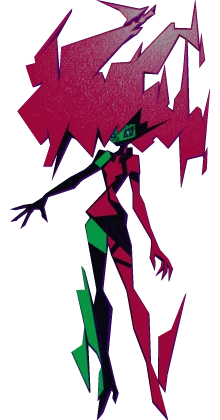
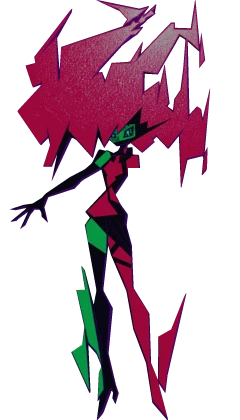
Mirror the reaching arm so both arms match, and rig both
The hanging arm is removed from the sprite (tools/build-sprite.py keeps the
original cut-out as source); the shader draws the reaching arm mirrored in
its place. Arms pass in front of the mane with a violet line, except at the
shoulders.

diff --git a/src/renderer/js/sprite.js b/src/renderer/js/sprite.js
@@ -1,7 +1,7 @@
 // WebGL renderer for the Capri cut-out.
-// One texture, one quad: every bit of life (head tilt, mane sway and flare, sitting with dangling
-// legs, smear frames, afterimages, line boil, speckles, the violet misregistration, glitch slices,
-// teleport collapse) is done in the fragment shader.
+// One texture, one quad: every bit of life (head tilt, mane sway and flare, both arms, sitting with
+// dangling legs, smear frames, afterimages, line boil, speckles, the violet misregistration, glitch
+// slices, teleport collapse) is done in the fragment shader.
 
 const VERT = `
 attribute vec2 aPos;
@@ -25,6 +25,8 @@ uniform float uBoil;
 uniform float uHair;
 uniform float uHead;
 uniform float uMane;
+uniform float uArmL;
+uniform float uArmR;
 uniform float uSit;
 uniform float uKickL;
 uniform float uKickR;
@@ -43,8 +45,11 @@ uniform vec3 uRim;
 uniform float uAlpha;
 uniform float uPx; // sprite pixels per screen pixel
 
-// landmarks, in sprite pixels (capri-full.png is 220x420)
+// landmarks, in sprite pixels (capri-full.png is 240x420, see tools/build-sprite.py)
 const vec2 NECK = vec2(118.0, 152.0);   // the head tilts around this
+const vec2 SHOULDER_L = vec2(98.0, 168.0);
+const float MIRROR = 234.0;             // the right arm is the left one flipped around x = 117
+const vec2 SHOULDER_R = vec2(136.0, 168.0);
 const vec2 MANE = vec2(116.0, 92.0);    // middle of the mane, it flares out from here
 const vec2 FACE = vec2(124.0, 132.0);   // her mask, kept rigid when the mane flares
 const float AXIS = 118.0;
@@ -141,24 +146,61 @@ vec2 unsit(vec2 q) {
   return q;
 }
 
-bool rigged() { return uSit > 0.0 || uKickL != 0.0 || uKickR != 0.0; }
+// The reaching arm, on the left of the cut-out, between the hair spike above it and the hip
+// below. The right arm is this same drawing mirrored (the original hanging one was removed).
+float armL(vec2 s) {
+  if (s.x > 101.0 || s.y > 234.0) return 0.0;
+  float top = 159.0 + (98.0 - s.x) * 0.5;
+  float bot = s.x < 50.0 ? 234.0 : 178.0 + (98.0 - s.x) * 0.62;
+  return step(top, s.y) * step(s.y, bot);
+}
 
-// Body, then each lower leg swung on its knee (outward for positive kicks).
-vec4 rig(vec2 q) {
-  if (!rigged()) return cel(q);
+vec2 mirrorArm(vec2 s) { return vec2(MIRROR - s.x, s.y); }
+
+bool legsRigged() { return uSit > 0.0 || uKickL != 0.0 || uKickR != 0.0; }
+
+// Everything but the arms, with each lower leg swung on its knee (outward for positive kicks).
+vec4 torso(vec2 q) {
+  if (!legsRigged()) return armL(q) > 0.0 ? vec4(0.0) : cel(q);
   float kneeY = HIP + (KNEE - HIP) * thighScale();
   vec2 qB = unsit(q);
   vec2 qL = unsit(rot(q, vec2(KNEE_LX, kneeY), -uKickL));
   vec2 qR = unsit(rot(q, vec2(KNEE_RX, kneeY), uKickR));
-  vec4 body = legL(qB) + legR(qB) > 0.0 ? vec4(0.0) : cel(qB);
+  vec4 b = legL(qB) + legR(qB) + armL(qB) > 0.0 ? vec4(0.0) : cel(qB);
   vec4 l = legL(qL) > 0.0 ? cel(qL) : vec4(0.0);
   vec4 r = legR(qR) > 0.0 ? cel(qR) : vec4(0.0);
-  vec4 c = l + body * (1.0 - l.a);
+  vec4 c = l + b * (1.0 - l.a);
   return r + c * (1.0 - r.a);
 }
 
+// Both arms turned on their shoulders (positive raises them). They pass in front of the body
+// and the mane (a hand reaching up stays visible), except right at the shoulders, which cover the joints.
+float armAlpha(vec2 q) {
+  vec2 qL = rot(q, SHOULDER_L, -uArmL);
+  vec2 qR = mirrorArm(rot(q, SHOULDER_R, uArmR));
+  return max(armL(qL) * tex(qL).a, armL(qR) * tex(qR).a);
+}
+
+vec4 rig(vec2 q) {
+  vec2 qL = rot(q, SHOULDER_L, -uArmL);
+  vec2 qR = mirrorArm(rot(q, SHOULDER_R, uArmR));
+  vec4 l = armL(qL) > 0.0 ? cel(qL) : vec4(0.0);
+  vec4 r = armL(qR) > 0.0 ? cel(qR) : vec4(0.0);
+  vec4 arms = l + r * (1.0 - l.a);
+  vec4 b = torso(q);
+  bool joint = distance(q, SHOULDER_L) < 18.0 || distance(q, SHOULDER_R) < 18.0;
+  if (joint) return b + arms * (1.0 - b.a);
+  // where an arm crosses the body or the mane, ink a violet line around it so it reads
+  if (arms.a < 0.5 && b.a > 0.5 && (uArmL != 0.0 || uArmR != 0.0)) {
+    float edge = max(max(armAlpha(q + vec2(1.8, 0.0)), armAlpha(q - vec2(1.8, 0.0))),
+                     max(armAlpha(q + vec2(0.0, 1.8)), armAlpha(q - vec2(0.0, 1.8))));
+    if (edge > 0.5) return vec4(uRim, 1.0);
+  }
+  return arms + b * (1.0 - arms.a);
+}
+
 float rigAlpha(vec2 q) {
-  return rigged() ? rig(q).a : tex(q).a;
+  return rig(q).a;
 }
 
 vec2 warp(vec2 p) {
@@ -252,16 +294,26 @@ void main() {
 }`;
 
 const UNIFORMS = [
-  'uView', 'uPad', 'uTex', 'uSize', 'uSeed', 'uBoil', 'uHair', 'uHead', 'uMane', 'uSit', 'uKickL', 'uKickR',
+  'uView', 'uPad', 'uTex', 'uSize', 'uSeed', 'uBoil', 'uHair', 'uHead', 'uMane', 'uArmL', 'uArmR', 'uSit', 'uKickL', 'uKickR',
   'uSmear', 'uEcho', 'uGlitch', 'uGlitchSeed',
   'uSplit', 'uCollapse', 'uDissolve', 'uSparkle', 'uGrade', 'uSil', 'uMisreg', 'uRim', 'uAlpha', 'uPx',
 ];
 
 export const SPRITE = {
-  width: 220, height: 420, pad: 56,
+  width: 240, height: 420, pad: 56,
   head: { x: 116, y: 132 },
   feet: { x: 128, y: 418 },
   hip: 232, // where she sits
+  // the reaching arm, as in the shader; the right arm is it mirrored around x = mirror / 2
+  shoulder: { x: 98, y: 168 },
+  hand: { x: 24, y: 212 },
+  mirror: 234,
+  armL(x, y) {
+    if (x > 101 || y > 234) return false;
+    const top = 159 + (98 - x) * 0.5;
+    const bot = x < 50 ? 234 : 178 + (98 - x) * 0.62;
+    return y >= top && y <= bot;
+  },
 };
 
 export class SpriteRenderer {
@@ -336,6 +388,8 @@ export class SpriteRenderer {
     gl.uniform1f(u.uHair, s.hair);
     gl.uniform1f(u.uHead, s.head);
     gl.uniform1f(u.uMane, s.mane);
+    gl.uniform1f(u.uArmL, s.armL);
+    gl.uniform1f(u.uArmR, s.armR);
     gl.uniform1f(u.uSit, s.sit);
     gl.uniform1f(u.uKickL, s.kickL);
     gl.uniform1f(u.uKickR, s.kickR);

diff --git a/tools/build-sprite.py b/tools/build-sprite.py
@@ -1,0 +1,68 @@
+"""Builds assets/capri/capri-full.png from the original cut-out (assets/capri/capri-cutout.png).
+
+The cut-out has one arm reaching out and one hanging down. The hanging one is removed here;
+the shader draws a mirrored copy of the reaching arm in its place, so both hands match and
+both arms can be animated. The canvas is widened so the mirrored hand fits.
+
+    python tools/build-sprite.py [--preview out.png]
+
+Needs Pillow. Keep the masks below in sync with src/renderer/js/sprite.js.
+"""
+import sys
+from pathlib import Path
+from PIL import Image
+
+ROOT = Path(__file__).resolve().parent.parent
+SRC = ROOT / 'assets' / 'capri' / 'capri-cutout.png'
+OUT = ROOT / 'assets' / 'capri' / 'capri-full.png'
+WIDTH = 240     # room for the mirrored hand
+MIRROR = 234    # x' = MIRROR - x puts the left shoulder (98, 168) on the right one
+
+
+def hanging_arm(x, y):
+    if y < 168 or y > 292:
+        return False
+    if x < 128 + max(0, y - 190) * 0.2:   # the leg next to it stays
+        return False
+    return not (y < 195 and x > 160)      # nor the hair spike at x~178
+
+
+def reaching_arm(x, y):
+    """The arm on the left of the cut-out (same rule as armL() in the shader)."""
+    if x > 101 or y > 234:
+        return False
+    top = 159 + (98 - x) * 0.5
+    bot = 234 if x < 50 else 178 + (98 - x) * 0.62
+    return top <= y <= bot
+
+
+def main():
+    src = Image.open(SRC).convert('RGBA')
+    out = Image.new('RGBA', (WIDTH, src.height), (0, 0, 0, 0))
+    out.paste(src, (0, 0))
+    px = out.load()
+    for y in range(out.height):
+        for x in range(src.width):
+            if hanging_arm(x, y):
+                px[x, y] = (0, 0, 0, 0)
+    out.save(OUT, optimize=True)
+    print(f'wrote {OUT} {out.size}')
+
+    if '--preview' in sys.argv:
+        # what the shader draws at rest: the mirrored arm tucked under the body
+        arm = Image.new('RGBA', out.size, (0, 0, 0, 0))
+        apx, spx = arm.load(), src.load()
+        for y in range(src.height):
+            for x in range(src.width):
+                if reaching_arm(x, y) and 0 <= MIRROR - x < WIDTH:
+                    apx[MIRROR - x, y] = spx[x, y]
+        arm.alpha_composite(out)
+        bg = Image.new('RGBA', out.size, (200, 200, 200, 255))
+        bg.alpha_composite(arm)
+        path = sys.argv[sys.argv.index('--preview') + 1]
+        bg.resize((out.width * 2, out.height * 2), Image.NEAREST).save(path)
+        print(f'preview {path}')
+
+
+if __name__ == '__main__':
+    main()
